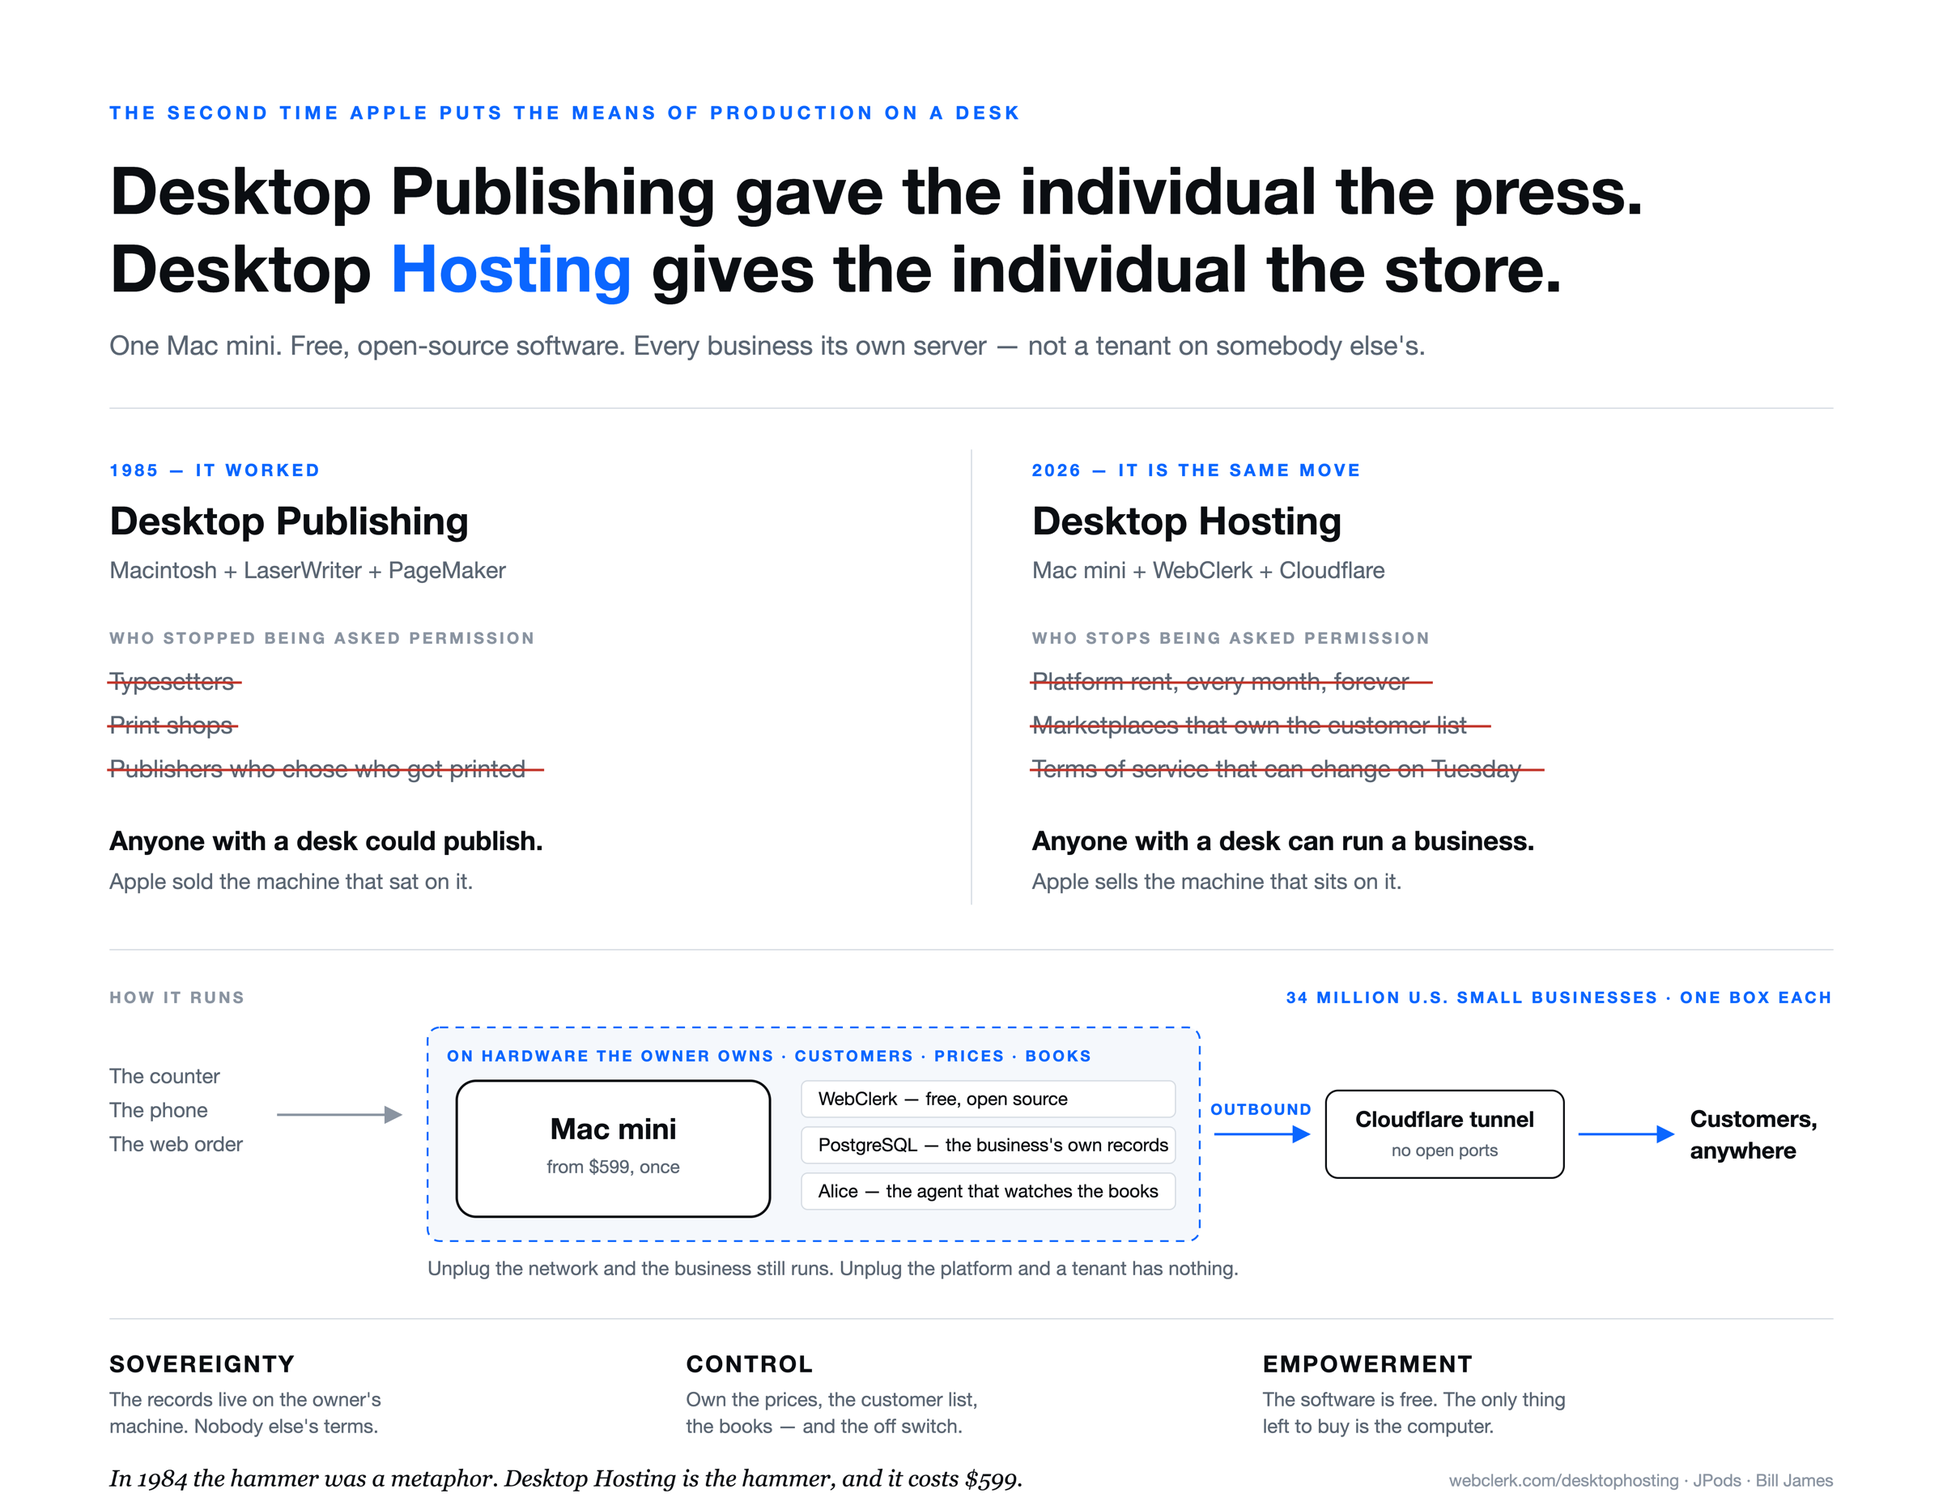
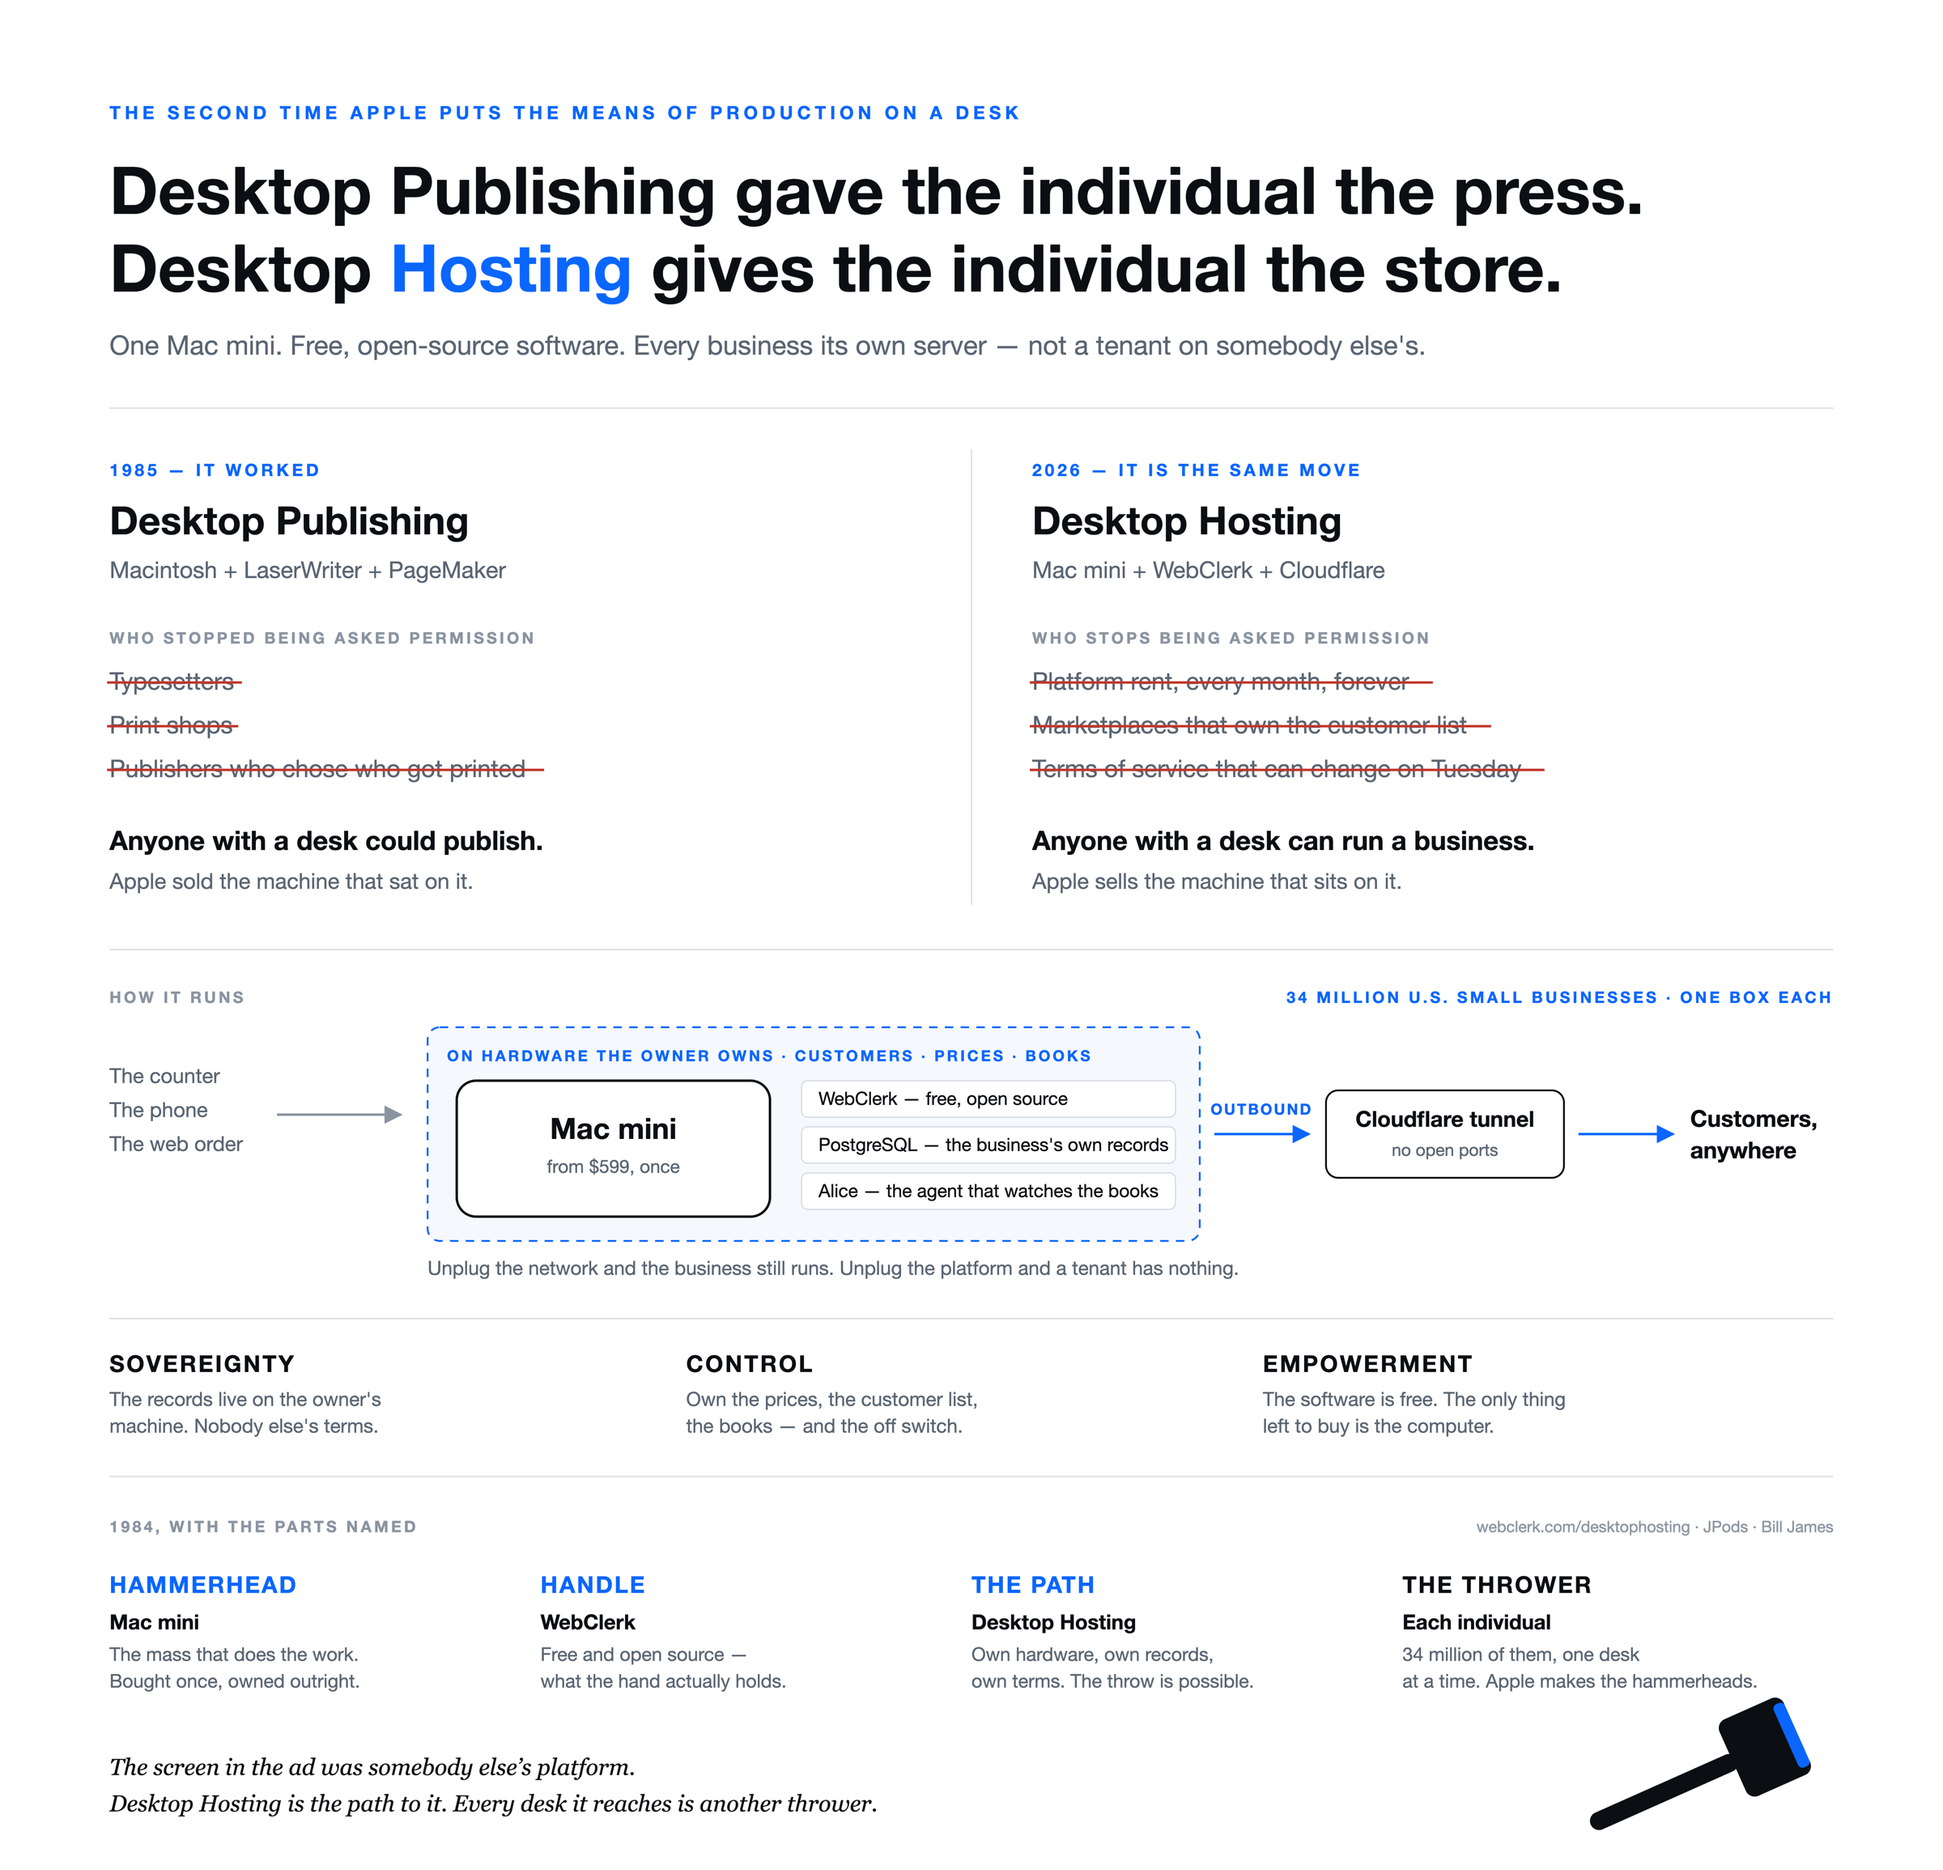
The hammer, with the parts named: head, handle, path, thrower
Bill: the Mac mini is the hammerhead, WebClerk is the handle, Desktop Hosting
provides the path, and each individual becomes a thrower. Closing band rebuilt
as four parts; page carries the same four. PNGs re-rendered at 6400px.

diff --git a/opportunity.html b/opportunity.html
@@ -10,7 +10,7 @@
 <meta property="og:description" content="Mac + LaserWriter + PageMaker took the press away from the typesetters. Mac mini + WebClerk + Cloudflare takes the store away from the platforms.">
 <meta property="og:type" content="website">
 <meta property="og:url" content="https://webclerk.com/desktophosting/opportunity.html">
-<meta property="og:image" content="https://webclerk.com/desktophosting/desktop-hosting-opportunity-email.png">
+<meta property="og:image" content="https://webclerk.com/desktophosting/desktop-hosting-opportunity-email.png?v=2">
 <style>
   :root {
     --paper:  #FFFFFF;
@@ -111,6 +111,36 @@
   .cols p { margin: 0 0 1em; }
   .cols p:last-child { margin-bottom: 0; }
 
+  .hammer {
+    border-top: 1px solid var(--hair);
+    margin-top: clamp(26px, 4vw, 36px);
+    padding-top: clamp(26px, 4vw, 36px);
+  }
+  .hammer h2 {
+    font-size: 13px;
+    font-weight: 700;
+    letter-spacing: 0.18em;
+    text-transform: uppercase;
+    color: var(--grey);
+    margin: 0 0 18px;
+  }
+  .hammer dl {
+    margin: 0;
+    display: grid;
+    grid-template-columns: repeat(auto-fit, minmax(240px, 1fr));
+    gap: 18px 32px;
+  }
+  .hammer dt {
+    font-size: 15px;
+    font-weight: 700;
+    letter-spacing: 0.1em;
+    text-transform: uppercase;
+    color: var(--accent);
+    margin-bottom: 4px;
+  }
+  .hammer dd { margin: 0; font-size: 16px; color: var(--grey); }
+  .hammer dd b { color: var(--ink); }
+
   .pull {
     font-family: var(--serif);
     font-style: italic;
@@ -151,12 +181,12 @@
 </header>
 
 <figure>
-  <img src="desktop-hosting-opportunity.svg"
+  <img src="desktop-hosting-opportunity.svg?v=2"
        alt="Desktop Publishing in 1985 removed typesetters, print shops and publishers. Desktop Hosting in 2026 removes platform rent, marketplaces that own the customer list, and terms of service that change on Tuesday. A Mac mini runs WebClerk, PostgreSQL and Alice behind a Cloudflare tunnel with no open ports, reaching customers anywhere while customers, prices and books stay on hardware the owner owns.">
   <figcaption>
     <span>Desktop Publishing, 1985 → Desktop Hosting, 2026.</span>
-    <a href="desktop-hosting-opportunity.png" download>Download the image (PNG)</a>
-    <a href="desktop-hosting-opportunity.svg" download>Vector (SVG)</a>
+    <a href="desktop-hosting-opportunity.png?v=2" download>Download the image (PNG)</a>
+    <a href="desktop-hosting-opportunity.svg?v=2" download>Vector (SVG)</a>
   </figcaption>
 </figure>
 
@@ -187,9 +217,19 @@
   </section>
 </div>
 
-<p class="pull">
-  In 1984 the hammer was a metaphor. Desktop Hosting is the hammer, and it costs $599.
-</p>
+<section class="hammer">
+  <h2>1984, with the parts named</h2>
+  <dl>
+    <div><dt>Hammerhead</dt><dd><b>Mac mini.</b> The mass that does the work — bought once, owned outright.</dd></div>
+    <div><dt>Handle</dt><dd><b>WebClerk.</b> Free and open source: what the hand actually holds.</dd></div>
+    <div><dt>The path</dt><dd><b>Desktop Hosting.</b> Own hardware, own records, own terms — the throw becomes possible.</dd></div>
+    <div><dt>The thrower</dt><dd><b>Each individual.</b> Thirty-four million of them, one desk at a time.</dd></div>
+  </dl>
+  <p class="pull">
+    The screen in the ad was somebody else&#8217;s platform. Desktop Hosting is the path to it,
+    and every desk it reaches is another thrower.
+  </p>
+</section>
 
 <div class="cols">
   <section>
